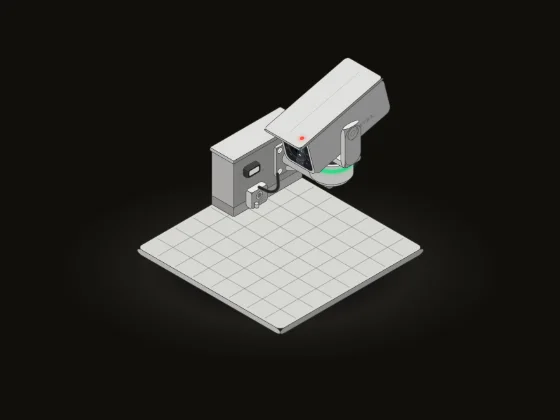
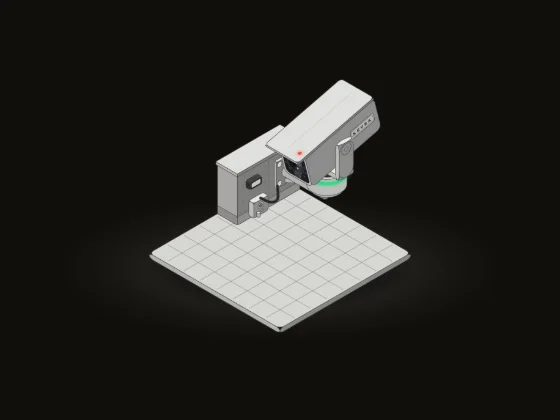
Keep the camera's brand plate and ground shadow in the house style
The brand is now a small plate at the back of the housing, set in the
house brand face the bank vault's plate uses, instead of a line of text
along the body. The ground shadow is the engine's flat ellipse, sized
so even the dark mode's wider floor pool stays inside the frame and
above the caption rule.

The brand text was drawn on the drawing's root instead of the head's
layer, so every redraw added a copy that was never cleared: about 180
in three seconds of patrol. A test now checks that the drawing doesn't
grow while the head moves.

diff --git a/packages/miniatures/src/figures/security-camera.ts b/packages/miniatures/src/figures/security-camera.ts
@@ -7,7 +7,7 @@ import type { FigureEnv, FigureModule } from '../engine/types'
 const css = `:root{color-scheme:light dark;--bg:#f4f3ef;--ink:#323232;--muted:#808080;--top:#fafaf8;--body:#e0e0dc;--side:#c7c7c3;--base:#b6b6b3;--recess:#9d9d99;--glass:#ededeb;--line:#626260;--accent:#3b5bfd;--rule:#d6d6d2;--shadow:#262626;--off:#b9b9b5;--ok:#15a65e;--warn:#e88a00;--fault:#e3372d;--metal:#d6d6d2;--metal-top:#efefec;--metal-side:#b4b4b1;--rubber:#2e2e2d;--dk:#3a3a39;--dk-top:#4a4a48;--dk-side:#2d2d2c;--conc:#c9c8c3;--conc-top:#dfdeda;--conc-side:#b3b2ad;--plinth:#a9a8a4;--roof:#a3a29e;--pave:#d3d3cf;--pave-top:#e6e6e2;--pave-side:#c0c0bc;--front:#20252b;--lens:#14171b;--lens-in:#22303a;--lens-rim:#30363d;--coat:#4f9fc4;--ir:#d02a5a;--ir-off:#6b5a5e;--warm:#ffb347;--white:#f4f6ff}
 @media(prefers-color-scheme:dark){:root{--bg:#1a1917;--ink:#e8e8e8;--muted:#929292;--rule:#32312e;--accent:#617cff;--shadow:#000;--top:#eaeae8;--body:#bdbdba;--side:#8c8c8b;--base:#999997;--recess:#6e6e6c;--glass:#c8c8c6;--off:#9b9b99;--ok:#36d886;--warn:#ffad2b;--fault:#ff4c41;--metal:#b4b4b2;--metal-top:#e0e0dd;--metal-side:#7e7e7d;--rubber:#252524;--dk:#2f2f2f;--dk-top:#454543;--dk-side:#1d1d1c;--conc:#a9a8a5;--conc-top:#d1d0cc;--conc-side:#7d7d7b;--plinth:#8e8d8a;--roof:#8d8c89;--pave:#b2b2af;--pave-top:#d7d7d3;--pave-side:#878786;--front:#1a1d21;--lens:#101215;--lens-in:#1d2830;--lens-rim:#2a2f35;--coat:#5fb0d4;--ir:#ff4d76;--ir-off:#5a4c50;--warm:#ffb04a;--line:#444443}svg{--ink:#282828;--muted:#6b6b6b}}
 .night{--lens-in:#2c1a33;--coat:#c45bd8}
-.face{fill:var(--body);stroke:var(--line);stroke-width:1;vector-effect:non-scaling-stroke;stroke-linejoin:round}.top{fill:var(--top)}.side{fill:var(--side,var(--body))}.base{fill:var(--base)}.recess{fill:var(--recess)}.glass{fill:var(--glass)}.detail{fill:none;stroke:var(--line);stroke-width:.65;vector-effect:non-scaling-stroke;stroke-linecap:round;stroke-linejoin:round}.etch{fill:var(--muted);font:3.2px ui-monospace,monospace;letter-spacing:.45px;stroke:none}.label{fill:var(--ink);font:4px ui-monospace,monospace;letter-spacing:.6px;stroke:none}.brand{font-size:6px;letter-spacing:1.7px;font-weight:600}.brandh{font-size:3px;letter-spacing:.85px;font-weight:600}.micro{font-size:2.6px;letter-spacing:.2px}.center{text-anchor:middle}.shadow{fill:var(--shadow);opacity:.075;filter:url(#soft)}
+.face{fill:var(--body);stroke:var(--line);stroke-width:1;vector-effect:non-scaling-stroke;stroke-linejoin:round}.top{fill:var(--top)}.side{fill:var(--side,var(--body))}.base{fill:var(--base)}.recess{fill:var(--recess)}.glass{fill:var(--glass)}.detail{fill:none;stroke:var(--line);stroke-width:.65;vector-effect:non-scaling-stroke;stroke-linecap:round;stroke-linejoin:round}.etch{fill:var(--muted);font:3.2px ui-monospace,monospace;letter-spacing:.45px;stroke:none}.label{fill:var(--ink);font:4px ui-monospace,monospace;letter-spacing:.6px;stroke:none}.brand{font-size:6px;letter-spacing:1.7px;font-weight:600}.brand.tiny{font-size:3px;letter-spacing:.9px}.micro{font-size:2.6px;letter-spacing:.2px}.center{text-anchor:middle}.shadow{fill:var(--shadow);opacity:.075;filter:url(#soft)}
 .metal{fill:var(--metal)}.top.metal{fill:var(--metal-top)}.side.metal{fill:var(--metal-side)}.dk{fill:var(--dk)}.top.dk{fill:var(--dk-top)}.side.dk{fill:var(--dk-side)}.rubber{fill:var(--rubber)}.conc{fill:var(--conc)}.top.conc{fill:var(--conc-top)}.side.conc{fill:var(--conc-side)}.pave{fill:var(--pave)}.top.pave{fill:var(--pave-top)}.side.pave{fill:var(--pave-side)}.plinth{fill:var(--plinth)}
 .crease{fill:none;stroke:var(--line);stroke-width:.5;vector-effect:non-scaling-stroke;opacity:.45}.joint{fill:none;stroke:var(--line);stroke-width:.5;opacity:.3}.seam{fill:none;stroke:var(--line);stroke-width:.5;vector-effect:non-scaling-stroke;opacity:.55}.tie{fill:var(--recess);stroke:none;opacity:.6}
 .su,.sr,.sm{fill:none;stroke-linecap:round;stroke-linejoin:round}.su{stroke:var(--line)}.sr{stroke:var(--rubber)}.sm{stroke:var(--metal)}
@@ -57,7 +57,7 @@ function lit(n,c,base='lamp'){if(n&&n._c!==c){n._c=c;set(n,'class',base+(c?' '+c
 function bind(g,fn){g.addEventListener('click',fn);g.addEventListener('keydown',e=>{if(e.key==='Enter'||e.key===' '){e.preventDefault();e.stopPropagation();if(!e.repeat)fn();}});}
 function button(g,attrs){for(const[k,v]of Object.entries({class:'control',role:'button',tabindex:'0',...attrs}))set(g,k,v);return g;}
 // Ground: the yard's paving and the layer the field of view, the IR flood and the floodlight's pool draw on, clipped to it.
-const sh=P(46,46,-3);el('ellipse',{cx:f2(sh[0]),cy:f2(sh[1]+8),rx:84,ry:36,class:'shadow stage-floor'});el('ellipse',{cx:f2(sh[0]),cy:f2(sh[1]+8),rx:84,ry:36,class:'stage-contact'});
+const sh=P(46,46,-3);el('ellipse',{cx:f2(sh[0]),cy:f2(sh[1]+6),rx:92,ry:30,class:'shadow stage-floor'});el('ellipse',{cx:f2(sh[0]),cy:f2(sh[1]+6),rx:92,ry:30,class:'stage-contact'});
 box(0,0,-3,92,92,3,3,'pave');const yt=group(TOP(0,0,.02));for(let k=11.5;k<92;k+=11.5){line(yt,k,1.5,k,90.5,'joint');line(yt,1.5,k,90.5,k,'joint');}
 el('path',{d:poly([[0,0,0],[92,0,0],[92,92,0],[0,92,0]],true)},el('clipPath',{id:'yard'},svg.querySelector('defs')));
 const fovG=el('g',{'clip-path':'url(#yard)'}),pool=el('ellipse',{cx:30,cy:34,rx:15,ry:10,fill:'url(#warmG)',class:'pool'},group(TOP(0,0,.04),fovG)),irPool=el('path',{class:'irpool'},fovG),fov=el('path',{class:'fov'},fovG);
@@ -80,7 +80,7 @@ let[pan,tilt]=REST,vp=0,vt=0,[tp,tt]=REST,zi=0,lb=LB[0],zNow=1,shut=0,iris=1.4,n
 let ptr=null,lostUntil=0,manual=null,manualAt=-1e9,lastMove=null,speed=0,patrolT=P0,twitchT=-1e9,motionT=-1e9,snapT=-1e9,cutT=-1e9,lampT=-1e9,flash='',flashT=0,last=0,lastUI=-1,drawn='',mode='PATROL',rec=null,cutV='1';
 function pose(){const p=(HOME+pan)*RAD,t=tilt*RAD,g=[Math.cos(p),Math.sin(p),0],s=[-Math.sin(p),Math.cos(p),0],f=[Math.cos(t)*g[0],Math.cos(t)*g[1],Math.sin(t)],u=[-Math.sin(t)*g[0],-Math.sin(t)*g[1],Math.cos(t)];return{g,s,f,u,T:[PIV[0],PIV[1],TZ]};}
 /* The text frame on a face: reads left to right and upright on screen whichever way the head turns. */
-function upright(o,a,b){const Y=P(...b)[1]>0?b:mul(b,-1),pa=P(...a),py=P(...Y),X=pa[0]*py[1]-pa[1]*py[0]>0?a:mul(a,-1);return group(plane(o,X,Y));}
+function upright(o,a,b,parent){const Y=P(...b)[1]>0?b:mul(b,-1),pa=P(...a),py=P(...Y),X=pa[0]*py[1]-pa[1]*py[0]>0?a:mul(a,-1);return group(plane(o,X,Y),parent);}
 function assemble(){const{g,s,f,u,T}=pose(),near=dot(s,VIEW)>=0?1:-1;for(const k in L)L[k].replaceChildren();
 obox(L.yoke,[T[0],T[1],36.2],s,g,[0,0,1],27.6,10,2.8,'',1.2);
 for(const side of[-near,near])for(const fc of obox(side===near?L.near:L.far,[T[0]+s[0]*side*12.4,T[1]+s[1]*side*12.4,45.4],g,s,[0,0,1],10,2.8,21.2,'',5))if(fc.i===1&&fc.s===side){circle(fc.f,17.2,5,3.3,'face '+shade(fc.n));circle(fc.f,17.2,5,1.4,'detail');}
@@ -89,7 +89,7 @@ if(fc.i===0&&fc.s>0){const e=fc.f;rect(e,1.2,1.2,16.6,18.6,2.6,'glassfront');cir
 circle(e,9.5,10.5,gl+.9,'face dk');circle(e,9.5,10.5,gl,'lensg');el('path',{d:`M${f2(9.5-gl*.75)},${f2(10.5+gl*.3)}A${f2(gl*.8)},${f2(gl*.8)} 0 0 0 ${f2(9.5-gl*.1)},${f2(10.5+gl*.78)}`,class:'coat'},e);circle(e,9.5,10.5,iris,'iris');circle(e,9.5-gl*.32,10.5-gl*.35,.6,'spec');
 const cl=el('g',{'clip-path':'url(#frontClip)'},e);el('path',{d:'M2,19.8H6.4L12,1.2H7.6Z',class:'glint'},cl);const x0=1.2-(1-shut)*16.6;rect(cl,x0,1.2,16.6,18.6,2.4,'shutter');for(const k of[13.4,14.9])line(cl,x0+k,4,x0+k,17,'grip');}
 else if(fc.i===0){circle(fc.f,9.5,5.4,1.9,'face rubber');circle(fc.f,9.5,5.4,.8,'face dk');}
-else if(fc.i===1)text(upright(add(add(T,mul(fc.n,9.56)),add(mul(f,-11),mul(u,-4.6))),f,mul(u,-1)),0,1,'KEVRA','etch center');}
+else if(fc.i===1){const pl=upright(add(add(T,mul(fc.n,9.56)),mul(f,-16)),f,mul(u,-1),L.head);rect(pl,-8.3,-2.8,16.6,5.6,1.3,'face metal');rect(pl,-7.6,-2.1,15.2,4.2,.8,'detail');text(pl,0,1.1,'KEVRA','label brand tiny center');}}
 for(const k of[-12,12])obox(L.hood,add(add(T,mul(f,k)),mul(u,11.35)),f,s,u,5,11,1.7,'dk',.6);
 const top=obox(L.hood,add(add(T,mul(f,2)),mul(u,12.9)),f,s,u,55,23,1.4,'metal',2).find(h=>h.i===2&&h.s>0);rec=null;if(top){line(top.f,4,11.5,51,11.5,'crease');rec=lamp(top.f,49.5,4,1.05);}
 const hc=P(...add(T,mul(f,2)));for(const n of[hHit,hRing]){set(n,'cx',f2(hc[0]));set(n,'cy',f2(hc[1]));}

diff --git a/packages/miniatures/src/security-camera.test.tsx b/packages/miniatures/src/security-camera.test.tsx
@@ -44,6 +44,15 @@ describe('Security camera', () => {
     expect(handle().getSnapshot().readout).not.toBe(securityCamera.initial.readout)
   })
 
+  it('redraws its moving head in place: the drawing does not grow while it patrols', async () => {
+    const run = useFrames()
+    const { svg } = mount(MiniatureSecurityCamera)
+    await run(500)
+    const nodes = svg().querySelectorAll('*').length
+    await run(3000)
+    expect(svg().querySelectorAll('*').length).toBe(nodes)
+  })
+
   it.each([
     ['ArrowLeft', 'PAN −55.0° · TILT −14.0° · 1.0×'],
     ['ArrowRight', 'PAN −35.0° · TILT −14.0° · 1.0×'],
